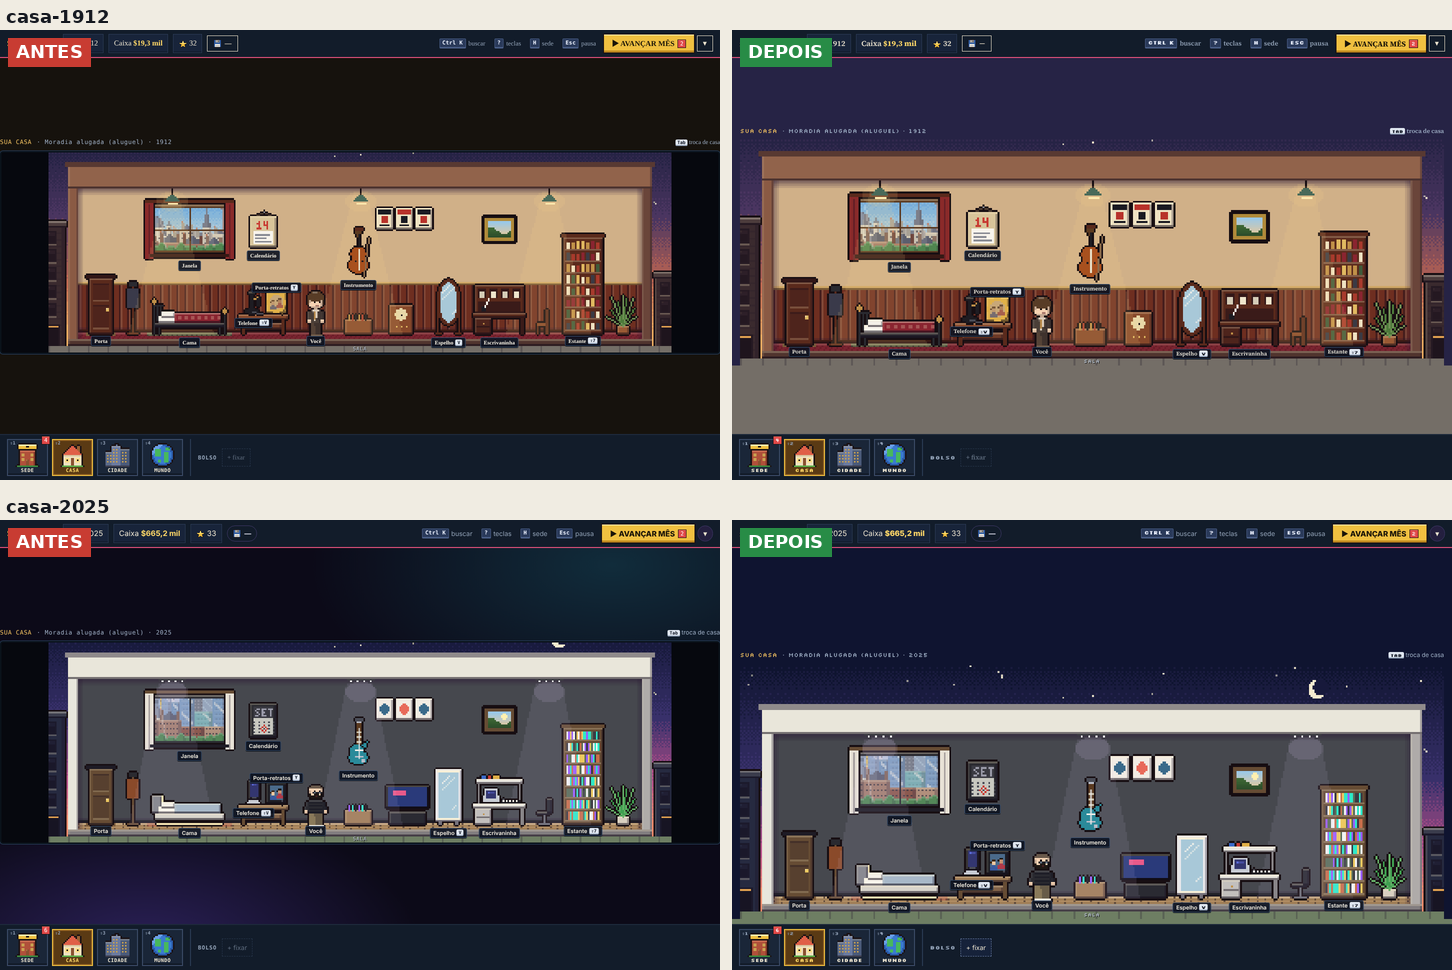
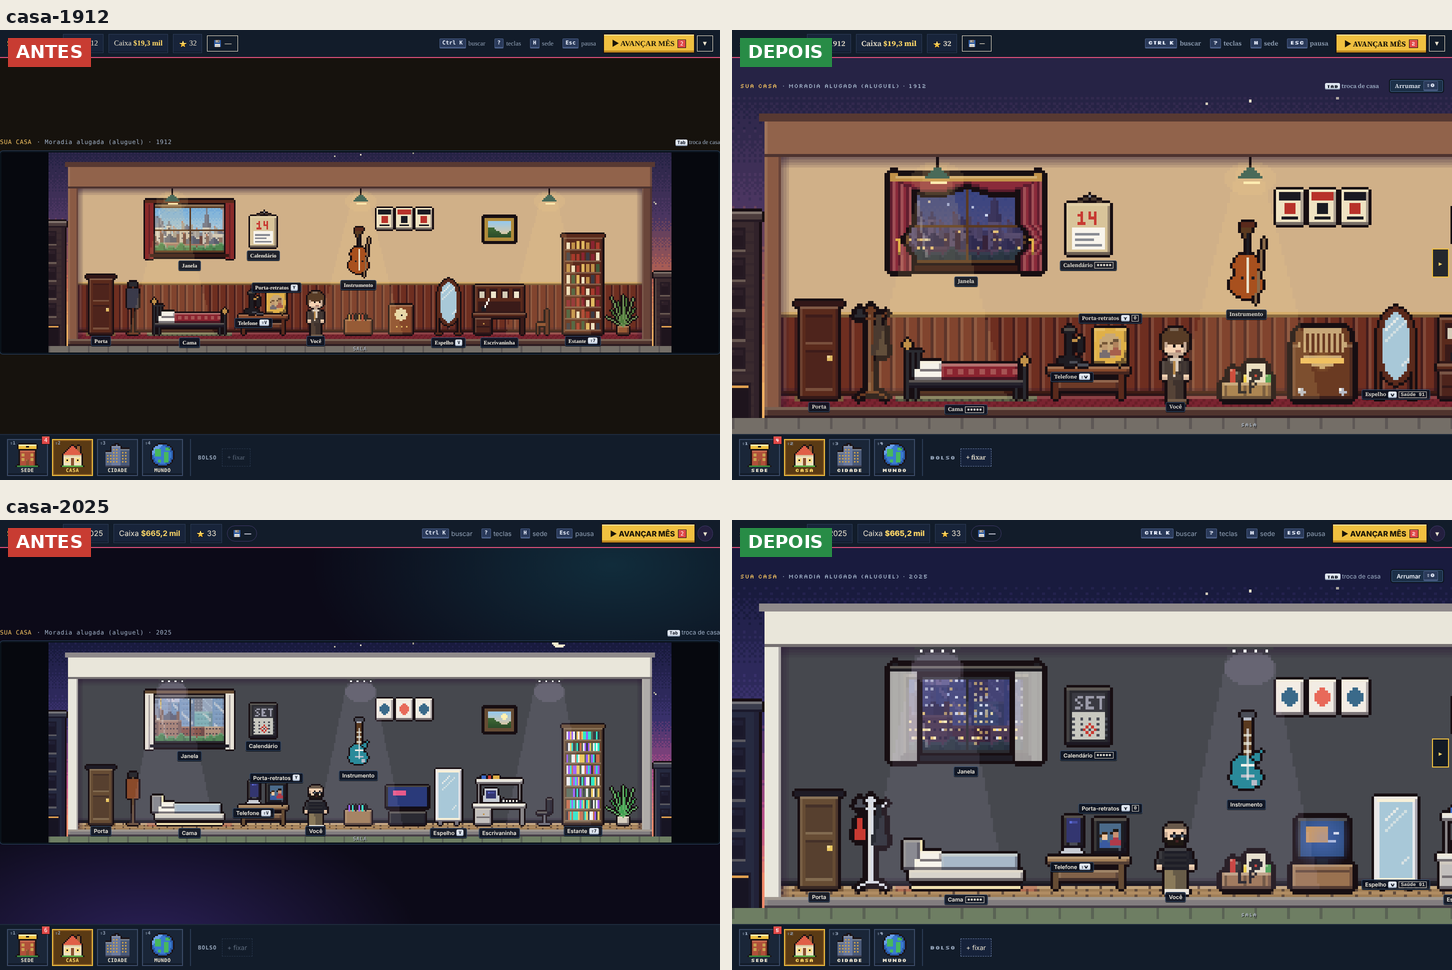
POL5: "+ fixar" também fixa o objeto do cartão de ações (ACOES5); testes de navegador do bolso ajustados ao cartão
Claude-Session: https://claude.ai/code/session_011XM6gk992aeaeJ7tjK8svn

Changed region(s): [[0.4959, 0.5876, 1.0, 0.9588], [0.4959, 0.0619, 1.0, 0.433]]

diff --git a/src/ui/r31/shell5.ts b/src/ui/r31/shell5.ts
@@ -214,6 +214,8 @@ export function install5(host: Shell5Host): void {
     if (e.key === 'Alt') { alt(true); if (document.querySelector('.app5')) e.preventDefault(); }
   }, true);
   window.addEventListener('keyup', (e) => { if (e.key === 'Alt') alt(false); });
+  // o cartão de ações (ACOES5) fecha no apertar fora (captura no document); a janela vê antes e guarda qual estava aberto
+  window.addEventListener('pointerdown', (e) => { if ((e.target as HTMLElement | null)?.closest?.('.b5-pin')) cardAtDown5 = document.querySelector<HTMLElement>('.ac5[data-card]')?.dataset.card; }, true);
   document.addEventListener('click', (e) => { const t0 = e.target as HTMLElement | null; if (!t0?.closest('.b5-pinw, .b5-drawer')) document.querySelectorAll<HTMLElement>('.b5-drawer').forEach((x) => { x.hidden = true; }); }); // gaveta do "+ fixar" fecha ao clicar fora
   window.addEventListener('blur', () => alt(false));
 }
@@ -253,6 +255,8 @@ function topBar5(s: GameState, host: Shell5Host): HTMLElement {
 
 // ---------------------------------------------------------------- barra de baixo: viagem + bolso
 
+let cardAtDown5: string | undefined;
+
 function bottom5(s: GameState): HTMLElement {
   const tr = travel5(s);
   const cur = SH5.region;
@@ -271,6 +275,9 @@ function bottom5(s: GameState): HTMLElement {
     onclick: (e: Event) => {
       if (full) { toast(t(l('O bolso está cheio (8). Tire um objeto (×) antes de fixar outro.', 'The pocket is full (8). Remove one (×) before pinning another.')), 'bad'); return; }
       if (canPin && SH5.paper) { const why = pin5(s, SH5.paper.obj); if (why) toast(t(why), 'bad'); redraw(); return; }
+      // cartão de ações aberto (ACOES5): fixa o objeto do cartão
+      const card = cardAtDown5 ?? (typeof document !== 'undefined' ? document.querySelector<HTMLElement>('.ac5[data-card]')?.dataset.card : undefined); cardAtDown5 = undefined;
+      if (card && object5(card) && !pinned.has(card)) { const why = pin5(s, card); if (why) toast(t(why), 'bad'); else toast(t(l('{o} no bolso.', '{o} in the pocket.'), { o: tl5(object5(card)!.label) }), 'good'); redraw(); return; }
       e.stopPropagation(); drawer.hidden = !drawer.hidden;
       if (!drawer.hidden) { const r = (e.currentTarget as HTMLElement).getBoundingClientRect(); drawer.style.left = `${Math.max(8, Math.min(r.left, (window.innerWidth || 1280) - 316))}px`; drawer.style.bottom = `${(window.innerHeight || 800) - r.top + 8}px`; }
     } }, `+ ${t(l('fixar', 'pin'))}`, full ? h('small', null, ' 8/8') : null);

diff --git a/docs/r31/pol5.md b/docs/r31/pol5.md
@@ -69,13 +69,13 @@ Olhado e deixado como está (sem defeito ou fora do escopo da interface):
 | Teste que falhe com rolagem horizontal | `scripts/r31/check-pol5-janela.mjs` (navegador): 1280×720, 1366×768, 1440×900, 1600×700, 1920×1080, 2560×1440 × sede/casa (inclusive a moradia mais larga)/cidade/mundo × 1985 e 2025: sem rolagem horizontal, topo e barra de viagem à vista, recados sem cobrir a sede. Antes: 5 falhas (casa larga); depois: 48/48 | — |
 | Mundo → cidade sem volta | Botão "◂ Mundo" no topo da cidade visitada; ⇧4 (viajar ao lugar em que já se está) sobe ao mapa; Esc/Backspace sobem um nível antes da pausa; vale também para a cidade da sede aberta a partir do mapa (`travel5go(r, 'scene')` guarda de onde se veio); API `UP5` na casca para qualquer região com níveis | `onda5-pol5-mundo-cidade-antes-depois.png` |
 | Clicar na cidade entrava direto | Cartão da cidade em papel de ficha pixel (país, público e mercado da época, gêneros em alta, casas, rádios, festivais, seus artistas e fãs lá, custo e dias de viagem) com "Ir para a cidade" (transição de viagem) e "Fechar"; o mesmo pelas cidades do painel do país. Teste `scripts/r31/check-pol5-mundo.mjs` (clique, ⇧4, Esc, cartão antes de entrar): 6/6 | idem |
-| "O fixar não está funcionando" | "+ fixar" sempre clicável: sem papel abre a gaveta com os objetos do lugar; com papel fixa ele; o "fixar no bolso" do cabeçalho avisa quando não dá; o bolso cabe em duas linhas (8 itens sem rolagem); cheio = aviso claro "O bolso está cheio (8)…". Todo papel (PAPEL, ELENCO, CASA) passa pela casca e registra `SH5.paper` (o desvio do ELENCO saiu). Teste `scripts/r31/check-pol5-bolso.mjs`: 12/12 (gaveta, cabeçalho em 3 frentes, abrir pelo bolso, ×, salvar/carregar, limite 8) | `onda5-pol5-bolso-antes-depois.png` |
+| "O fixar não está funcionando" | "+ fixar" sempre clicável: sem papel abre a gaveta com os objetos do lugar; com papel fixa ele; o "fixar no bolso" do cabeçalho avisa quando não dá; o bolso cabe em duas linhas (8 itens sem rolagem); cheio = aviso claro "O bolso está cheio (8)…". Todo papel (PAPEL, ELENCO, CASA) passa pela casca e registra `SH5.paper` (o desvio do ELENCO saiu). Com o cartão de ações da ACOES5 aberto, "+ fixar" fixa o objeto do cartão. Teste `scripts/r31/check-pol5-bolso.mjs`: 13/13 (gaveta, cabeçalho em 3 frentes, cartão de ações, abrir pelo bolso, ×, salvar/carregar, limite 8) | `onda5-pol5-bolso-antes-depois.png` |
 | Painel do prédio na cidade corta o texto | Painel com a altura da área útil, rolagem interna discreta com esmaecido (nunca corte seco); motivo do bloqueio junto do botão bloqueado (selo com cadeado), sem a lista solta no fim; "Abrir a tela ↗" vira "Abrir o papel do lugar ▸" (com exp5.nav; desligado = igual) | `onda5-pol5-cidade-painel-antes-depois.png` |
 | (dono, no chat) "não deixe todo esse espaço verde na frente" da casa | O chão na frente da casa saiu (tira de 10 px); a cena mostra o céu e o horizonte de verdade em cima | `onda5-pol5-casa-antes-depois.png` |
 
 ## Testes
 
-Navegador: `check-pol5-janela.mjs` 48/48, `check-pol5-mundo.mjs` 6/6, `check-pol5-bolso.mjs` 12/12, `audit-pol5.mjs` sem achado de contraste/corte/vazamento.
+Navegador: `check-pol5-janela.mjs` 48/48, `check-pol5-mundo.mjs` 6/6, `check-pol5-bolso.mjs` 13/13, `audit-pol5.mjs` sem achado de contraste/corte/vazamento.
 `npx tsc --noEmit` limpo; `r31-nav5`, `r31-papel5`, `r31-elenco5`, `r31-casa5`, `r31-mapa5`, `r31-pol` verdes; goldens
 `r27-p2a`, `r27-p2b`, `r27-m3`, `r16-playbot` iguais. Ajustes de teste: `r31-elenco5` (ligado, o objeto abre pela casca
 `NAV5.open`, não pelo embrulho) e `r31-casa5` (sem o desvio do menu).
